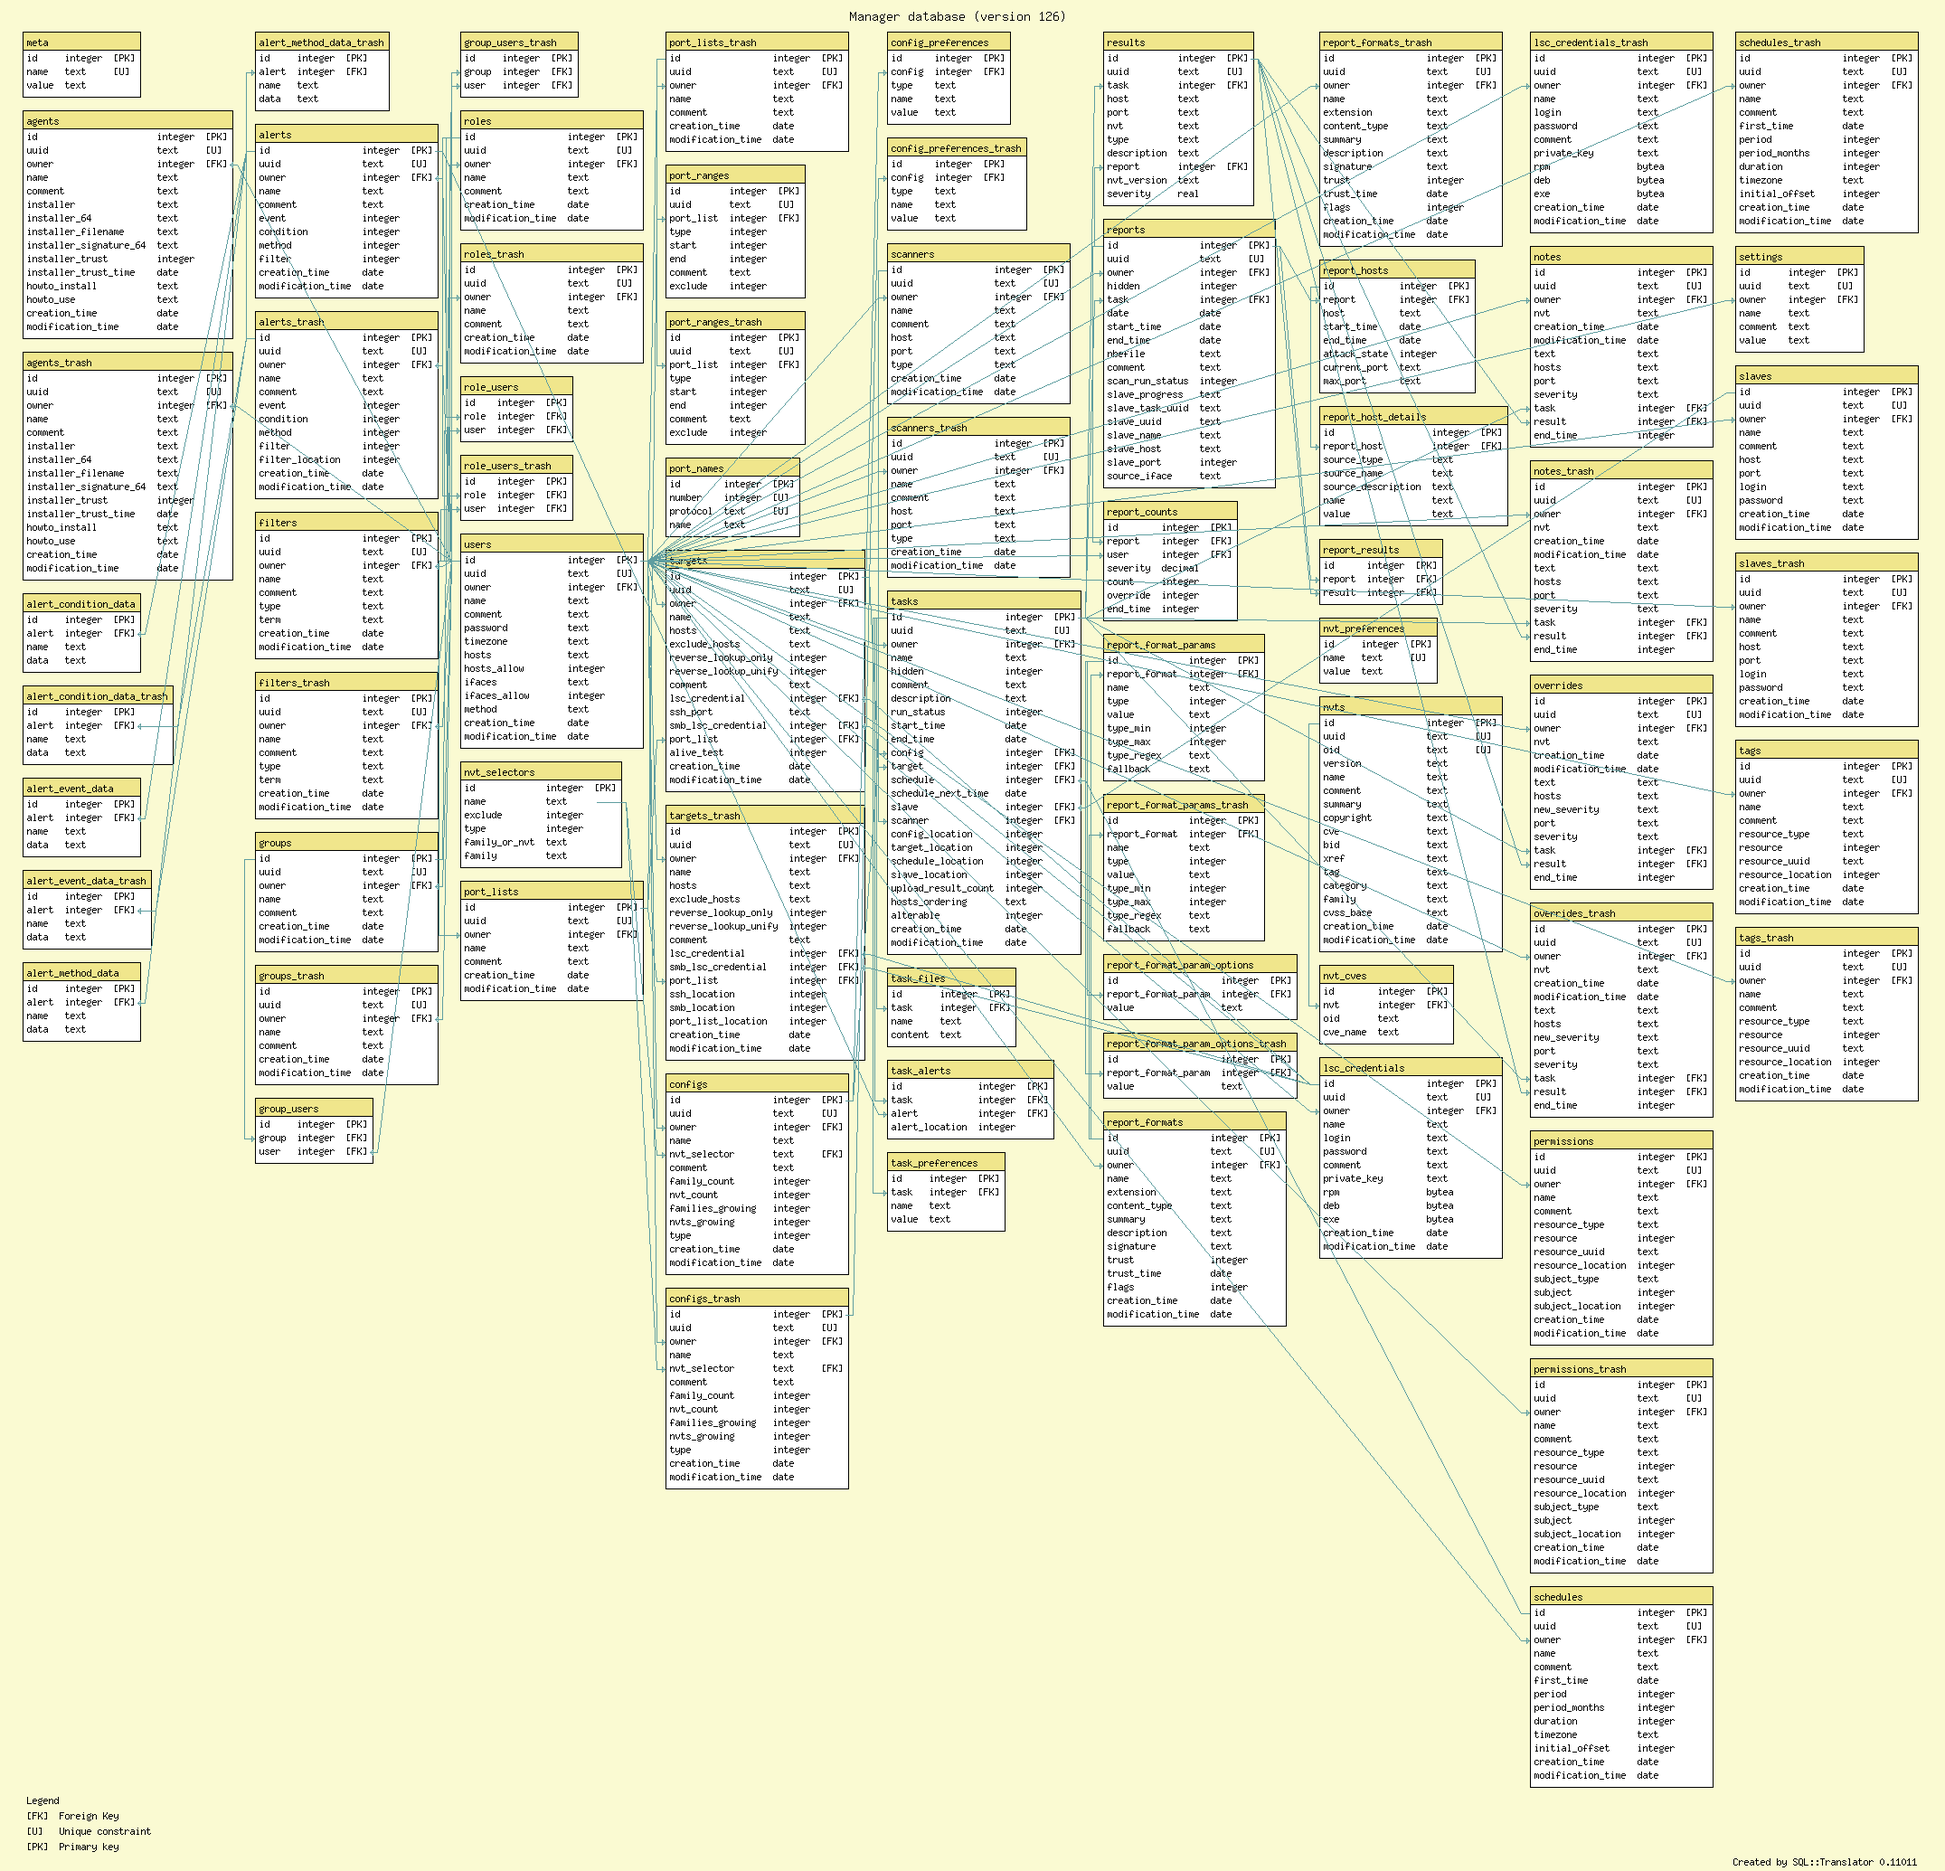
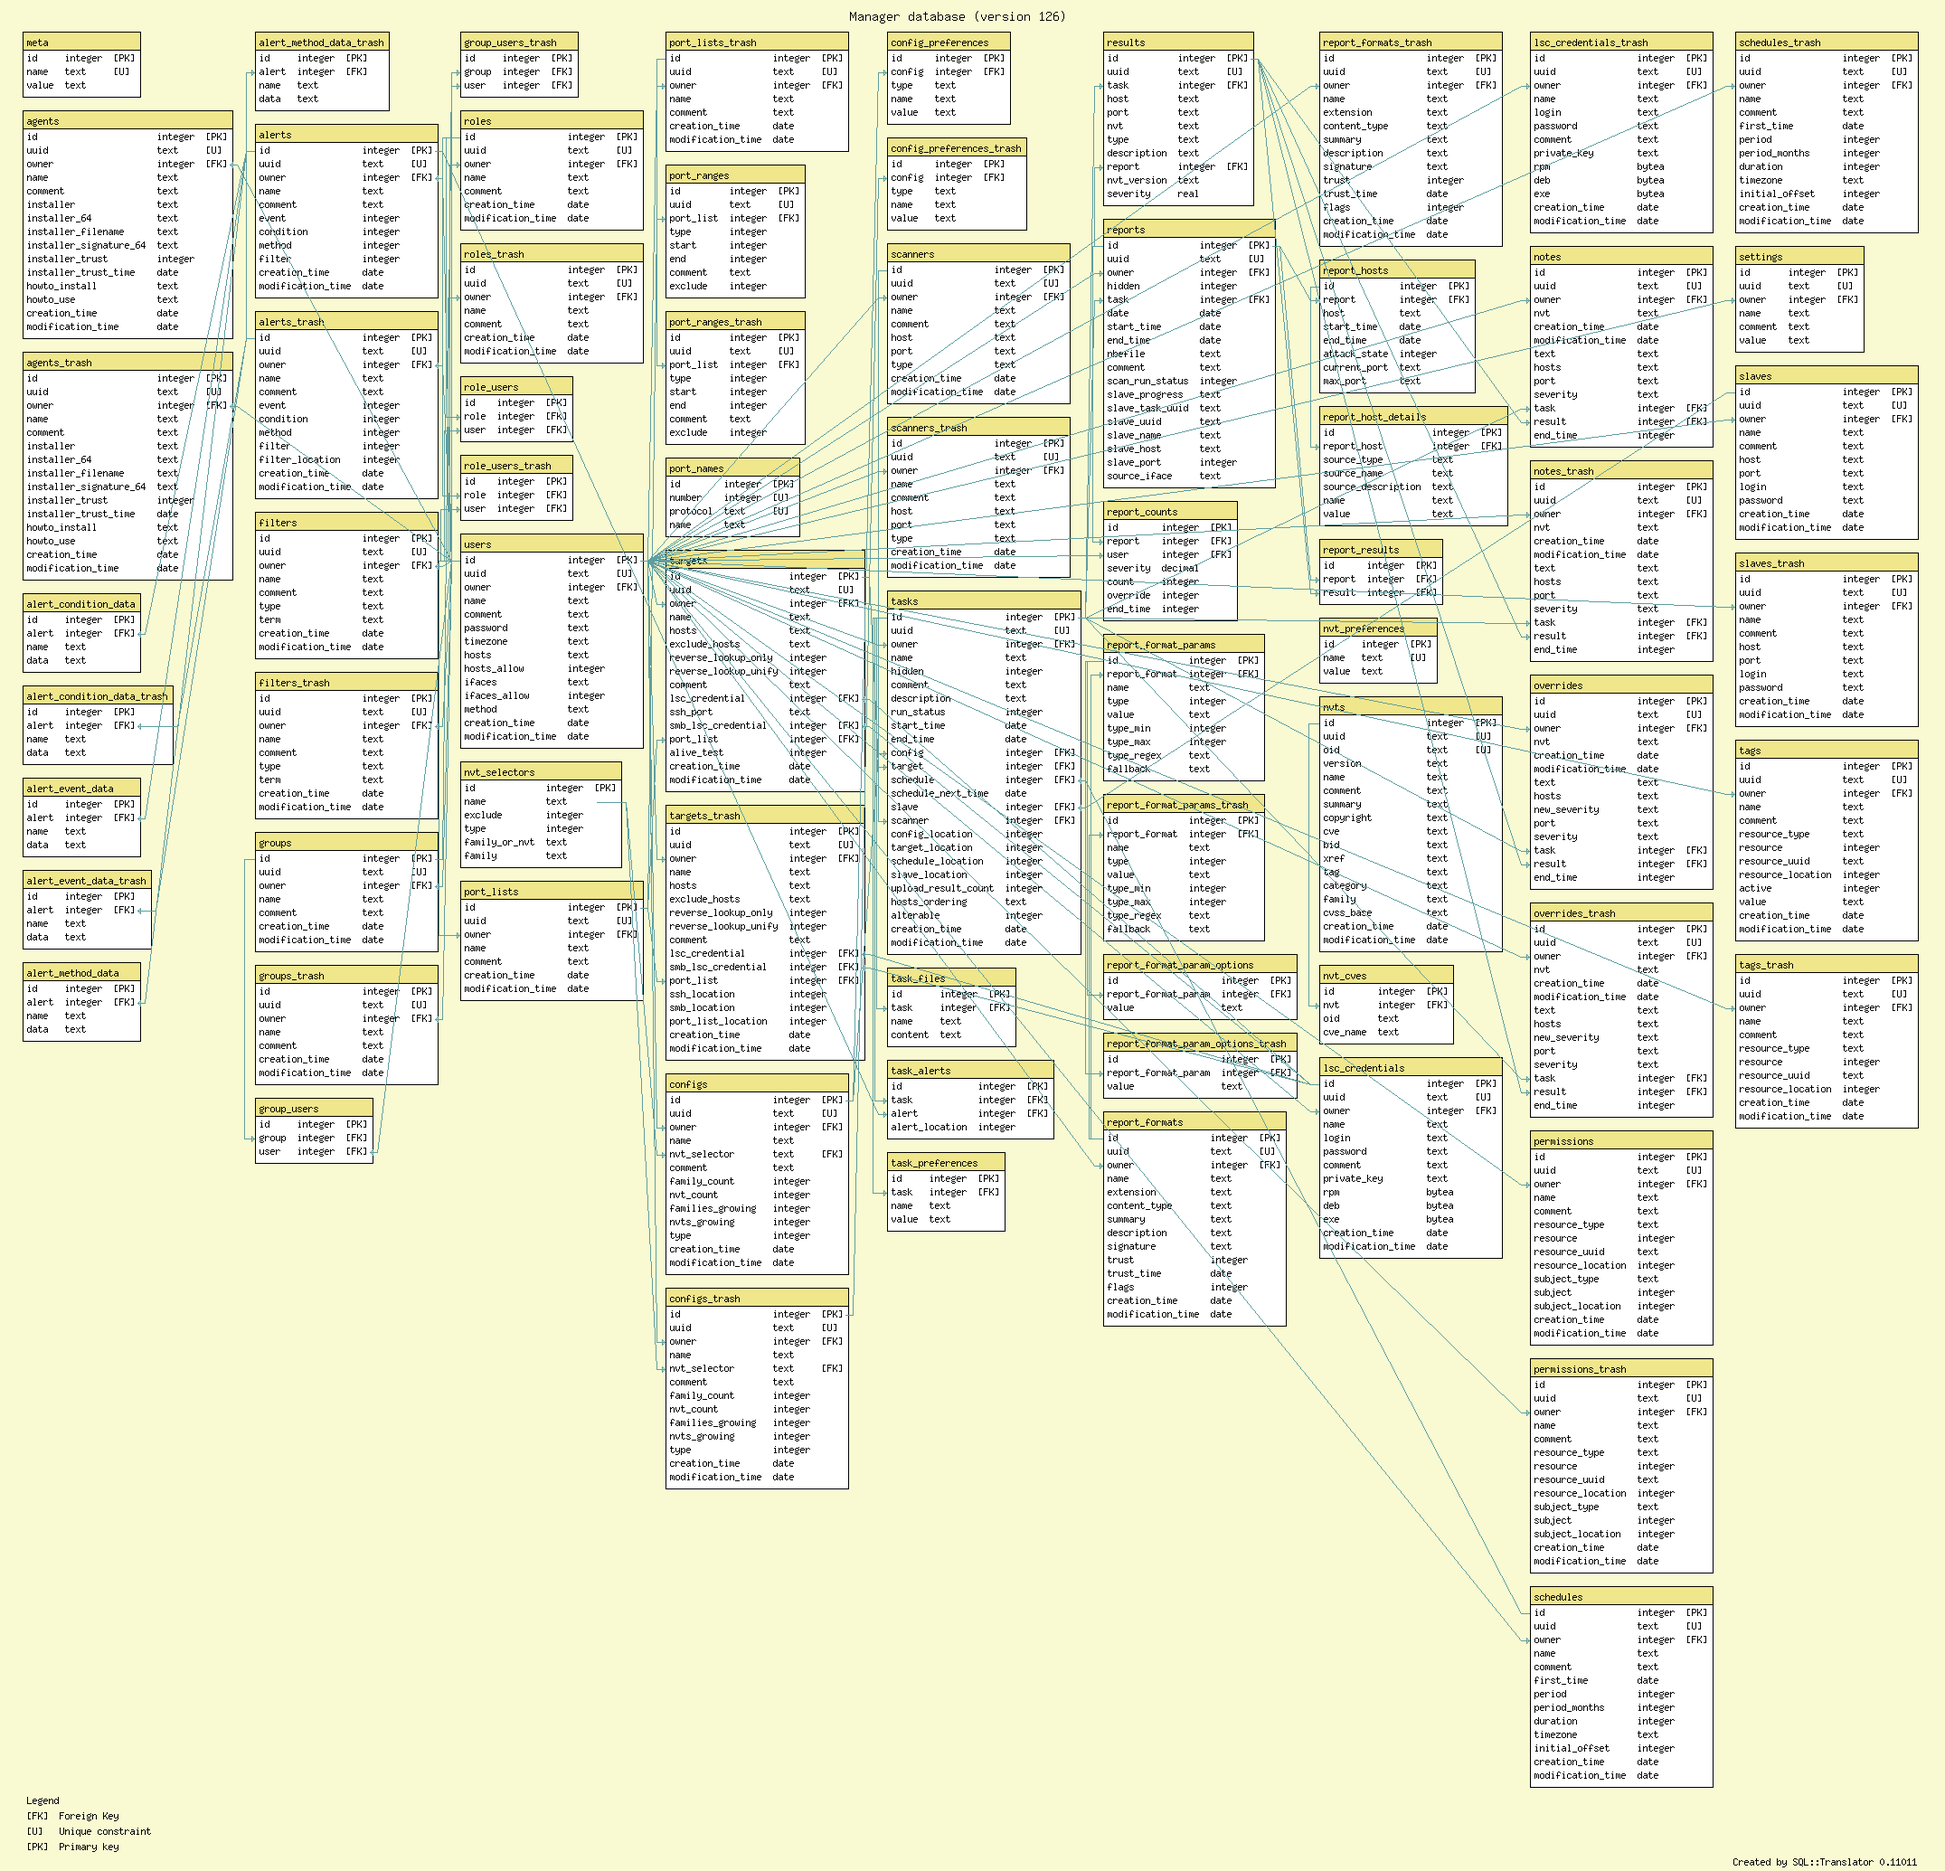
* src/manage_pg.c (create_tables): Add missing tags columns.
* doc/db_postgres.sql (tags): Add missing tags columns.

	* doc/db.png: Update from source.

git-svn-id: svn+ssh://scm.wald.intevation.org/openvas/trunk/openvas-manager@19599 423fd1db-d629-0410-8442-d21db03e70f4

Changed region(s): [[0.8722, 0.464, 0.9967, 0.5259], [0.8722, 0.5877, 0.9967, 0.6187]]

diff --git a/src/manage_pg.c b/src/manage_pg.c
@@ -1038,6 +1038,8 @@ create_tables ()
        "  resource integer,"
        "  resource_uuid text,"
        "  resource_location integer,"
+       "  active integer,"
+       "  value text,"
        "  creation_time integer,"
        "  modification_time integer);");
 
